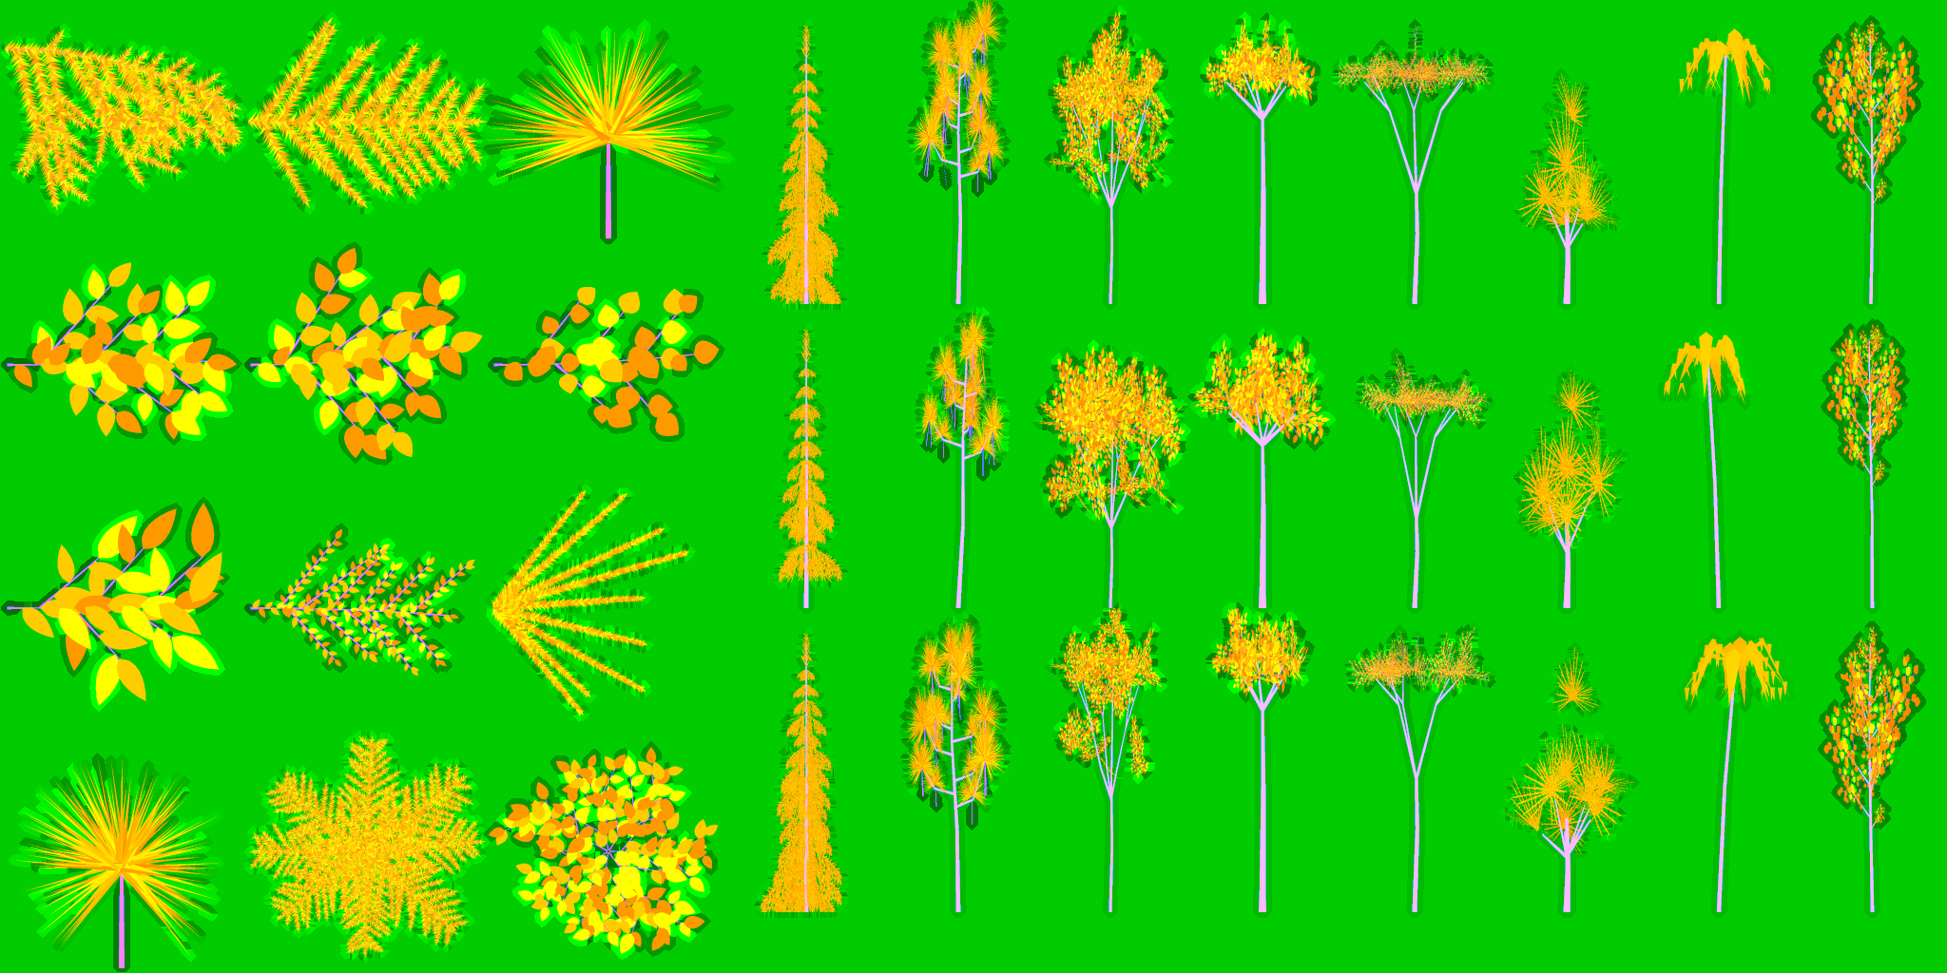
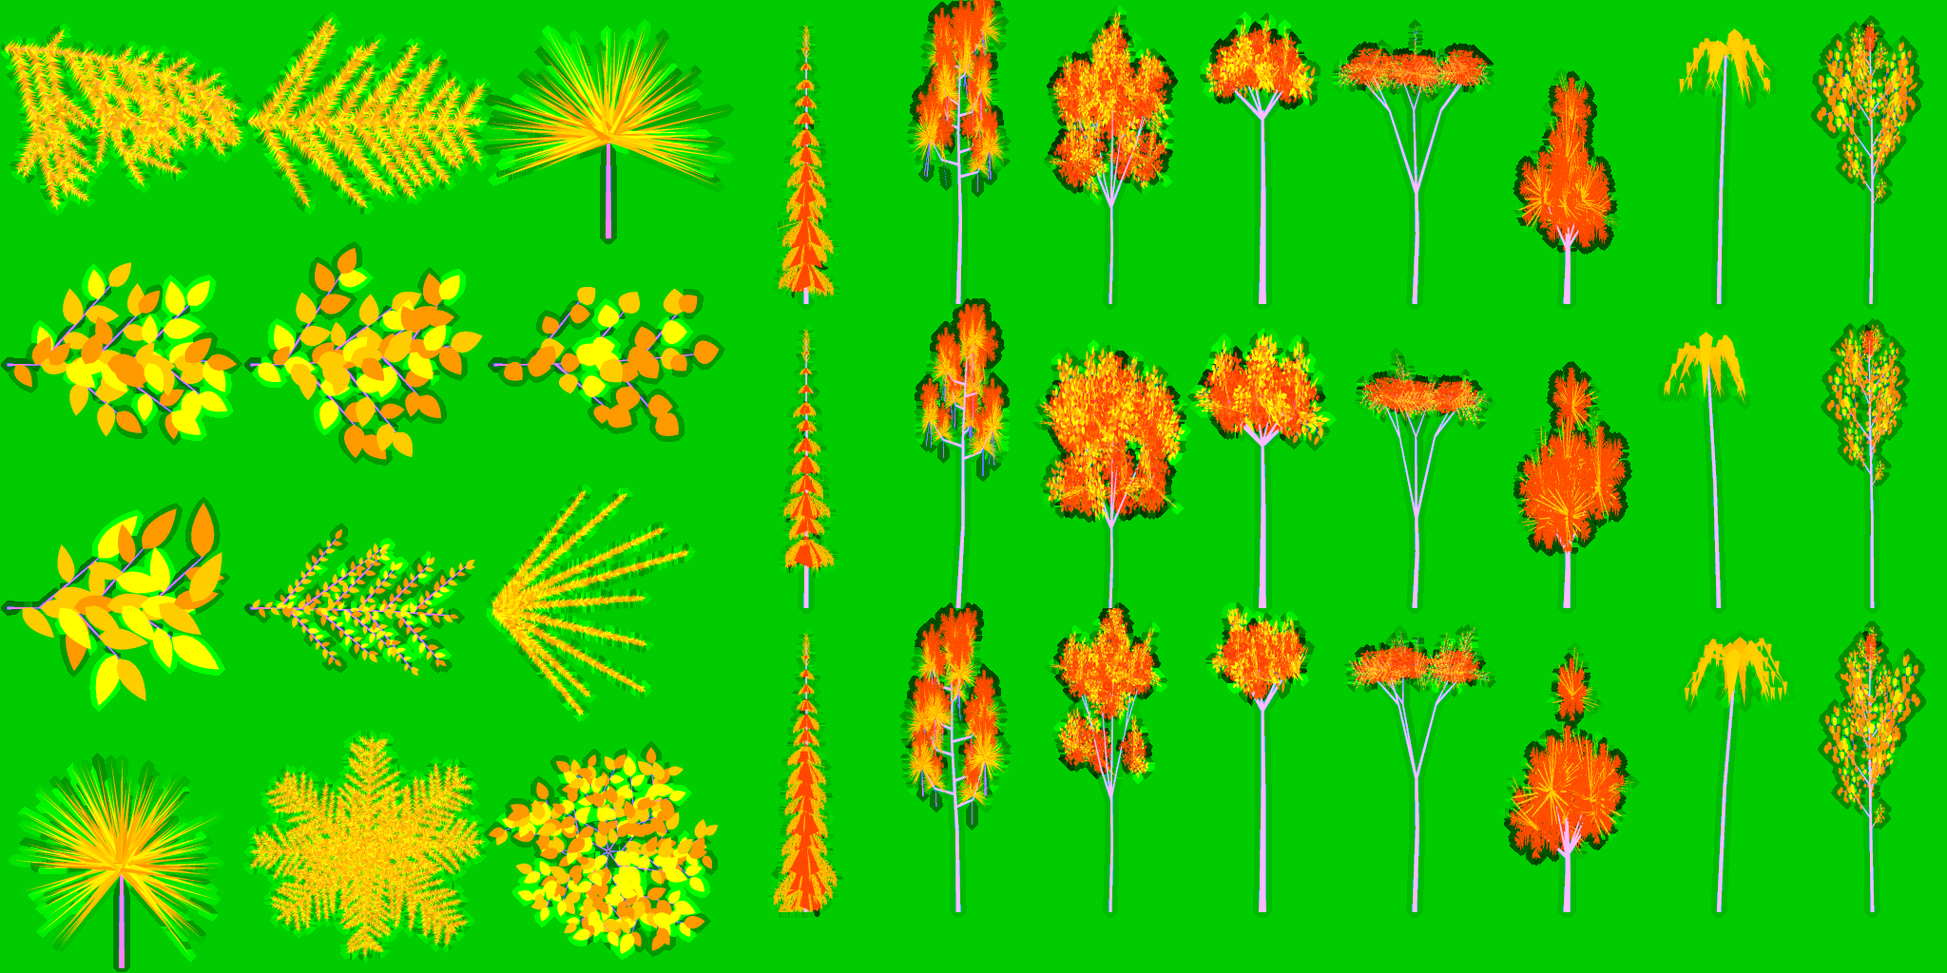
Trees: dark hearts in every crown, narrower firs, cold green for conifers, bark, the air of a wood
- treeGeometry: a bunch of sprays has a heart (three crossed rosette cards drawn dark,
  aLeaf 3.25); a fir's tier has a dark skirt under its boughs (plain faces, 1.25); firs a
  third narrower with more boughs a tier
- trees.js: paintLeaf keeps a conifer's cold green; hearts take no light through; bark
  furrows near by; forestAir (lightingGlsl) pales row behind row of trees
- the far canopy (terrainMaterial): up to its height where the last trees stand (no brown
  ring from above), lit by the sides of its crowns as trees are, in the same air
- the tide's vertex work only near the sea's level and the traveller
- governor: the rain step thins to a quarter (the old full count)

Not yet seen in the game: pictures are queued.

Claude-Session: https://claude.ai/code/session_01XG1DZ692FjkSqnhW4EMsP8

diff --git a/src/life/treeGeometry.js b/src/life/treeGeometry.js
@@ -14,8 +14,9 @@
 //
 // Vertex data: position, normal (smooth over the whole crown: a tree is lit as one round
 // mass, light on the side to the Sun and dark away from it, whatever way its cards
-// face), aLeaf (0 wood, 1 and 2 leaves drawn as plain faces: a palm's fronds; 3 a card of
-// foliage; 4 a whole tree's card), aUv (where in the picture; -1 on plain faces), aSway
+// face), aLeaf (0 wood, 1 and 2 leaves drawn as plain faces: a palm's fronds; 1.25 the
+// dark inside of a fir's tier, a plain face; 3 a card of foliage; 3.25 a card of the dark
+// heart of a bunch; 4 a whole tree's card), aUv (where in the picture; -1 on plain faces), aSway
 // (how far the wind can move the vertex: its height and its distance from the trunk).
 //
 // node scripts/tree-preview.mjs draws them all without a browser;
@@ -77,9 +78,29 @@ class Shape {
   // picture's downward goes); its root `off` of the way down the card's root edge.
   card(p, ax, ay, len, wid, cell, c, off = 0.5, bend = null) { this.plate(p, ax, [-ay[0], -ay[1], -ay[2]], len, wid, sprayRect(cell), 0, off, c, 3, bend); }
 
+  // The heart of a mass of foliage: three crossed cards of a rosette at its middle, drawn
+  // dark (aLeaf 3.25). Sprays alone are a lace one sees straight through: a forest of them
+  // was a green noise with no tree in it. With a heart a crown is a dark mass with a cut
+  // edge, and the light catches the sprays that stand out of it. (A plain lump did the
+  // same and showed its flat faces.) rx: its radius, ry: its half height.
+  heart(cx, cy, cz, rx, ry, rose) {
+    const c = [cx, cy, cz], rect = sprayRect(rose), t = cx * 37 + cz * 53 + cy * 11, a = [Math.cos(t), 0, Math.sin(t)], b = [-Math.sin(t), 0, Math.cos(t)];
+    this.plate(c, a, [0, 1, 0], 2 * rx, 2 * ry, rect, 0.5, 0.5, c, 3.25);
+    this.plate(c, b, [0, 1, 0], 2 * rx, 2 * ry, rect, 0.5, 0.5, c, 3.25);
+    this.plate(c, a, b, 2 * rx, 2 * rx, rect, 0.5, 0.5, c, 3.25);
+  }
+
+  // A skirt: the heart of one tier of a fir's boughs, a cone hanging from the trunk at
+  // height y down to a ring `r` out and `fall` lower.
+  skirt(y, r, fall, turn) {
+    const top = [0, y, 0], ring = [0, 1, 2, 3, 4, 5].map((k) => [Math.cos(turn + k * 1.0472) * r * (k % 2 ? 1 : 0.86), y - fall * (k % 2 ? 1 : 0.8), Math.sin(turn + k * 1.0472) * r * (k % 2 ? 1 : 0.86)]);
+    for (let k = 0; k < 6; k++) this.tri(top, ring[k], ring[(k + 1) % 6], 1.25, 0, y - fall * 1.6, 0);
+  }
+
   // A bunch of sprays at a limb's end: `n` of them growing out of (cx, cy, cz) every way
   // (more up and out than down), each about `r` long, flatter than round by `flat`.
-  bunch(cx, cy, cz, r, n, cells, R, flat = 1, low = -0.45) {
+  bunch(cx, cy, cz, r, n, cells, R, flat = 1, low = -0.45, rose = SPRAYS.roseL) {
+    this.heart(cx, cy + r * 0.12, cz, r * 0.95, r * 0.8 * Math.min(1, flat + 0.25), rose);
     for (let k = 0; k < n; k++) {
       const u = low + (1 - low) * (k + R()) / n, a = k * 2.4 + R() * 1.2, h = Math.sqrt(Math.max(0, 1 - u * u));
       const d = norm([Math.cos(a) * h, u * flat, Math.sin(a) * h]), e = norm(cross(d, norm([R() - 0.5, R() - 0.5, R() - 0.5]))), len = r * (1.15 + 0.5 * R());
@@ -154,11 +175,15 @@ export function makeTreeGeometries() {
   // trunk, its spray hanging; a few lie flat in every tier for whoever looks from above or
   // below. Variants: fuller, sparser, taller-crowned.
   make(0, 11, (v) => [SPRAYS.roseN, [0.2, 0.17, 0.22][v], 0.3, 0.5], (s, R, L, v, q) => {
-    const tiers = [13, 11, 15][v], wide = [1, 0.84, 1.1][v], foot = [0.14, 0.23, 0.1][v], nV = q === 2 ? 7 : 5, nH = q === 2 ? 3 : 1;
+    // (a tall narrow spire, as spruce and fir stand: a third as wide as it is tall at most.
+    // It was half as wide as tall, the tree of a Christmas card.)
+    const tiers = [13, 11, 15][v], wide = [1, 0.84, 1.1][v], foot = [0.15, 0.25, 0.1][v], nV = q === 2 ? 8 : 6, nH = q === 2 ? 3 : 1;
     s.mid = 0.5;
     s.trunk([[0, 0, 0], [0.004, 0.5, 0.003], [0, 0.97, 0]], 0.016, 0.003, q === 2 ? 6 : 4);
     for (let k = 0; k < tiers; k++) {
-      const t = k / (tiers - 1), y = foot + (0.93 - foot) * Math.pow(t, 0.9), rr = (0.24 * Math.pow(1 - t, 0.8) + 0.03) * (0.78 + 0.4 * R()) * wide, turn = R() * TAU, c = [0, y - rr * 0.4, 0];
+      const t = k / (tiers - 1), y = foot + (0.93 - foot) * Math.pow(t, 0.9), rr = (0.185 * Math.pow(1 - t, 0.85) + 0.024) * (0.8 + 0.36 * R()) * wide, turn = R() * TAU, c = [0, y - rr * 0.4, 0];
+      // (the tier's dark heart: a skirt under the boughs, so that the tree is not seen through)
+      s.skirt(y + rr * 0.1, rr * 0.7, rr * 0.62, turn);
       for (let j = 0; j < nV; j++) {
         const a = turn + (j + 0.5 * (L() - 0.5)) / nV * TAU, len = rr * (0.85 + 0.35 * L()), ax = norm([Math.cos(a), -0.18 - 0.2 * L(), Math.sin(a)]), d = -ax[1], ay = norm([-d * ax[0], -1 - d * ax[1], -d * ax[2]]);
         s.card([Math.cos(a) * 0.006, y, Math.sin(a) * 0.006], ax, ay, len, len * 0.66, SPRAYS.fir, c, 0.2);
@@ -179,7 +204,7 @@ export function makeTreeGeometries() {
     const tr = (y) => [lean * (y < 0.5 ? y * 1.6 : 0.8 + (y - 0.5) * 0.9) + 0.012 * Math.sin(y * 7), y, 0.01 * Math.sin(y * 5 + 1)];
     s.trunk([tr(0), tr(0.3), tr(0.62), tr(0.93)], 0.016, 0.004, q === 2 ? 6 : 4);
     // a burst: crossed cards standing on the point, the needles upward and outward
-    const burst = (c, r, n) => { for (let j = 0; j < n; j++) { const a = L() * TAU + j * (3.1416 / n), tilt = (L() - 0.5) * 0.7; s.plate(c, [Math.cos(a), 0, Math.sin(a)], norm([-Math.sin(a) * tilt, 1, Math.cos(a) * tilt]), r * 2.3, r * 2.3, sprayRect(j % 2 ? SPRAYS.pine2 : SPRAYS.pine), 0.5, 0.56, [c[0], c[1] - r * 0.6, c[2]]); } };
+    const burst = (c, r, n) => { s.heart(c[0], c[1] + r * 0.7, c[2], r * 0.74, r * 0.66, SPRAYS.roseN); for (let j = 0; j < n; j++) { const a = L() * TAU + j * (3.1416 / n), tilt = (L() - 0.5) * 0.7; s.plate(c, [Math.cos(a), 0, Math.sin(a)], norm([-Math.sin(a) * tilt, 1, Math.cos(a) * tilt]), r * 2.3, r * 2.3, sprayRect(j % 2 ? SPRAYS.pine2 : SPRAYS.pine), 0.5, 0.56, [c[0], c[1] - r * 0.6, c[2]]); } };
     for (let k = 0; k < N; k++) {
       const t = k / (N - 1), y = low + (0.9 - low) * t, a = k * 2.4 + R(), len = (0.15 + 0.15 * (1 - t)) * (0.7 + 0.5 * R()), up = 0.25 + 0.35 * R(), big = 0.12 * (0.85 + 0.4 * R());
       if (q === 1 && k % 4 === 3) continue;
@@ -193,7 +218,7 @@ export function makeTreeGeometries() {
   });
 
   // What the broad crowns share: bunches of sprays [x, y, z, r] at the limbs' ends.
-  const bunches = (s, L, list, n, cells, flat = 1, low = -0.45) => { for (const [x, y, z, r] of list) s.bunch(x, y, z, r, s.q === 2 ? n : Math.ceil(n * 0.55), cells, L, flat, low); };
+  const bunches = (s, L, list, n, cells, flat = 1, low = -0.45, rose = SPRAYS.roseL) => { for (const [x, y, z, r] of list) s.bunch(x, y, z, r, s.q === 2 ? n : Math.ceil(n * 0.55), cells, L, flat, low, rose); };
 
   // 2 broadleaf: a trunk that parts into limbs, each limb into two, twigs of leaves all round
   // every end and in the middle, with sky between them (oak, beech, maple). Variants: round,
@@ -264,7 +289,7 @@ export function makeTreeGeometries() {
       list.push([Math.cos(a) * d, y, Math.sin(a) * d, 0.17 + 0.07 * R()]);
     }
     list.push([0.04, 0.68 + 0.05 * v, -0.03, 0.16]);
-    bunches(s, L, list, 8, [SPRAYS.tuft], 1, -0.2);
+    bunches(s, L, list, 8, [SPRAYS.tuft], 1, -0.2, SPRAYS.roseN);
   });
 
   // 6 palm: a thin leaning trunk and a crown of fronds, each a bent blade with leaflets down

diff --git a/src/life/trees.js b/src/life/trees.js
@@ -44,7 +44,7 @@ vec3 treePosition(out vec3 foot, out float leaf) {
   float swing = sin(uSeason.z * (1.6 + iB.z) + iB.z * 40.0 + p.y * 3.0) * 0.5 + 0.5 * sin(uSeason.z * 3.7 + iB.z * 17.0 + p.x * 9.0);
   float bend = aSway * iA.w * (0.004 * uTreeWind.w * gust + 0.0025 * uTreeWind.w * swing);
   // (out to nothing at the edge of the trees' radius, so none pops in)
-  float fade = 1.0 - smoothstep(uTreeRadius * 0.82, uTreeRadius, length(foot));
+  float fade = 1.0 - smoothstep(uTreeRadius * 0.86, uTreeRadius, length(foot));
   leaf = aLeaf;
   // (single leaves flutter, each in its own time, harder the harder it blows)
   vec3 flutter = vec3(0.0);
@@ -99,6 +99,12 @@ export class Trees {
           return mix(mix(mix(leafHash(i), leafHash(i + vec3(1, 0, 0)), f.x), mix(leafHash(i + vec3(0, 1, 0)), leafHash(i + vec3(1, 1, 0)), f.x), f.y),
                      mix(mix(leafHash(i + vec3(0, 0, 1)), leafHash(i + vec3(1, 0, 1)), f.x), mix(leafHash(i + vec3(0, 1, 1)), leafHash(i + vec3(1, 1, 1)), f.x), f.y), f.z);
         }
+        // (the painted look's leaf: a cleaner green of the tree's own kind, warm for broad
+        // leaves, a cold blue-green for firs and spruces, told by the colour the species has)
+        vec3 paintLeaf(vec3 c) {
+          vec3 hue = mix(vec3(0.62, 1.0, 0.36), vec3(0.36, 1.0, 0.62), smoothstep(-0.2, 0.2, (c.b - c.r) / max(c.g, 1e-4)));
+          return mix(c, dot(c, vec3(0.2, 0.7, 0.1)) * hue, 0.45);
+        }
         void main() {
           // A card: cut out of the picture first of all (most of a card is nothing). Far off the
           // cut is taken lower: averaged down, needles and leaves cover less of a pixel, and a
@@ -124,7 +130,7 @@ export class Trees {
           // (the painted look: a crown's faces that look up are its light tone, those that look
           // down its dark one; a pale trunk has its dark scars, as aspen and birch do)
           if (uPaint.x > 0.0 && vLeaf > 0.5 && !card) {
-            leafC = mix(leafC, dot(leafC, vec3(0.2, 0.7, 0.1)) * vec3(0.62, 1.0, 0.36), 0.45) * mix(0.64, 1.15, smoothstep(-0.45, 0.55, dot(N, up)));
+            leafC = paintLeaf(leafC) * mix(0.64, 1.15, smoothstep(-0.45, 0.55, dot(N, up)));
             // (a crown is bunches of leaves, drawn as patches of three tones with clean edges;
             // not from far off, where a patch is smaller than a pixel)
             float c = leafCells(vTreeM * 2.6) * 0.65 + leafCells(vTreeM * 6.1 + 3.3) * 0.35, near = 1.0 - smoothstep(60.0, 140.0, length(vRel));
@@ -133,14 +139,22 @@ export class Trees {
           // (single leaves: each lighter or darker than its neighbours)
           leafC *= 1.0 - 0.36 * under;
           if (vLeaf > 1.5) leafC *= 0.94 + 0.44 * smoothstep(0.35, 0.65, leafCells(vTreeM * 4.7 + 1.9));
-          else if (vLeaf > 1.1) leafC *= 0.74;          // (the heart of a crown seen near: darker than the leaves round it)
+          else if (vLeaf > 1.1) leafC *= 0.46;          // (the heart of a mass of foliage: the dark inside, see Shape.heart in treeGeometry.js)
           // (a card's foliage: cleaner green, lighter where the crown looks up; and each needle
           // and leaf its own tone, from the picture)
           if (card) {
-            if (uPaint.x > 0.0) leafC = mix(leafC, dot(leafC, vec3(0.2, 0.7, 0.1)) * vec3(0.62, 1.0, 0.36), 0.45) * mix(0.5, 1.12, smoothstep(-0.5, 0.6, dot(N, up)));
+            if (uPaint.x > 0.0) leafC = paintLeaf(leafC) * mix(0.5, 1.12, smoothstep(-0.5, 0.6, dot(N, up)));
             leafC *= 0.46 + 0.6 * cut.g;
           }
+          // (the heart of a bunch: the dark inside of the crown, see Shape.heart in treeGeometry.js)
+          bool heart = (vLeaf > 3.1 && vLeaf < 3.5) || (vLeaf > 1.1 && vLeaf < 1.5);
+          if (vLeaf > 3.1 && vLeaf < 3.5) leafC *= 0.5;
           vec3 albedo = wood ? vTrunkC * 0.6 : leafC;
+          // (bark near by: furrows running up the trunk, wandering a little)
+          if (wood && !card) {
+            float dW = length(vRel);
+            if (dW < 60.0) { vec2 q = vTreeM.xz - vOwn.x * 37.0; float a = atan(q.y, q.x); albedo *= 1.0 - 0.38 * smoothstep(0.5, 0.8, abs(fract(a * 1.7507 + 0.32 * sin(vTreeM.y * 1.3 + a * 2.0)) - 0.5) * 2.0) * (1.0 - smoothstep(25.0, 60.0, dW)); }
+          }
           if (uPaint.x > 0.0 && wood && dot(vTrunkC, vec3(0.333)) > 0.4) albedo *= 1.0 - 0.75 * step(0.8, fract(vY * 31.0 + vOwn.x * 9.0)) * step(0.35, fract(vY * 7.7 + vOwn.x * 3.0));
           // (the shadow is asked for a little outside the crown: on a mass of a few faces the
           // shadow map would draw the faces)
@@ -150,7 +164,7 @@ export class Trees {
           float nl = dot(N, uSunDir), lit = !wood ? max(nl * 0.7 + 0.3, 0.0) : max(nl, 0.0);
           if (uPaint.x > 0.0) { lit = mix(lit, paintLit(!wood ? nl * 0.75 + 0.25 : nl) * PI, uPaint.x); albedo = paintColour(albedo); leafC = paintColour(leafC); }
           // (and seen against the Sun, foliage glows: the light comes through needles and leaves)
-          float through = wood ? 0.0 : max(-nl, 0.0) * 0.28 + (card ? 0.4 * pow(max(dot(-V, uSunDir), 0.0), 4.0) : 0.0);
+          float through = wood || heart ? 0.0 : max(-nl, 0.0) * 0.28 + (card ? 0.4 * pow(max(dot(-V, uSunDir), 0.0), 4.0) : 0.0);
           // inside and under a crown less sky is seen
           float open = !wood ? mix(0.5, 1.0, smoothstep(-0.6, 0.8, dot(N, up))) : mix(0.22, 0.6, smoothstep(0.0, 0.5, vY));
           // (the painted look: the shaded side of a crown is its dark tone, not a bright one lit by the sky)
@@ -159,7 +173,7 @@ export class Trees {
           // come down through the leaves above it, green from the passage)
           vec3 glow = !wood ? leafC * directSun(planetPos) * (0.07 * smoothstep(0.0, 0.25, dot(up, uSunDir))) * vec3(0.9, 1.2, 0.5) : vec3(0.0);
           vec3 col = (albedo * (sun * lit + skyLight(N, up) * open + planetShine(N)) + leafC * sun * through * vec3(1.1, 1.25, 0.6) + glow) / PI;
-          col = aerialPerspective(col, vRel);
+          col = aerialPerspective(forestAir(col, vRel, up, 1.0), vRel);
           fragColor = vec4(col * uExposure, 1.0);
         }`,
     });

diff --git a/src/terrain/terrainMaterial.js b/src/terrain/terrainMaterial.js
@@ -94,9 +94,12 @@ void main() {
       vRel = rel;
     }
   }
-  if (uSea.x > 0.5 && aI2.z < 20.0 && (uTide.x < 0.0 || (uWave.y > 0.5 && aI2.z < 2.5))) {
+  // (asked only by vertices that can need it: near the sea's level and near the traveller
+  // for the tide, in the finest patches for the waves)
+  float far = length(rel);
+  if (uSea.x > 0.5 && aI2.z < 20.0 && ((uTide.x < 0.0 && pv.w - uSea.y < 6.0 && far < 1000.0) || (uWave.y > 0.5 && aI2.z < 2.5))) {
     float wa = textureLod(tNormal, vec3((aGrid * float(NORMAL_RES) + 0.5) / float(NORMAL_RES + 1), aI2.w), 0.0).a;
-    float inland = smoothstep(2.0, 6.0, pv.w - uSea.y), far = length(rel);
+    float inland = smoothstep(2.0, 6.0, pv.w - uSea.y);
     // The tide: the sea stands uTide.x metres under the level its shore is mapped at. Its
     // surface comes down to that; where the water was shallower, the bed it leaves bare
     // is drawn at its own depth: the beach slopes down to the water's new edge. The sea
@@ -302,6 +305,7 @@ void main() {
   // --- the world's real large-scale brightness and colour: maria, rays, dark sands
   float canopyTall = 0.0;        // how tall the trees stand here (m; from the land-cover picture)
   float canopyShade = 0.0;       // how much of the sky a closed canopy hides from the ground here
+  float woodAir = 0.0;           // how much this is forest (its floor, or its canopy far off): for the air of a wood
   vec3 mapTint = vec3(1.0);
   float mapW = 0.0;
   if (uAlbedoMap.w > 0.0) {
@@ -401,6 +405,7 @@ void main() {
   // as a whole (far off) the surface is its canopy: leaves, uneven, darker between crowns
   if (canopyTall > 0.3) {
     float wooded = smoothstep(0.5, 5.0, canopyTall) * flatW;
+    woodAir = max(vShell, smoothstep(5.0, 14.0, canopyTall) * flatW);
     {
       // open country is grass in patches; under a closed canopy it is litter and shade
       vec3 g1 = texture(tDetail, vDetailUv * 0.5).rgb, g2 = texture(tDetail, vDetailUv * 4.0).rgb;
@@ -423,6 +428,9 @@ void main() {
       vec3 c1 = texture(tDetail, vDetailUv * 5.0).rgb - 0.5, c2 = texture(tDetail, vDetailUv * 1.0).rgb - 0.5;
       float nearC = 1.0 - smoothstep(0.03, 0.5, fwidth(vDetailUv.x) + fwidth(vDetailUv.y));
       N = normalize(N + (uTanU * (c1.r + 0.7 * c2.r) + uTanV * (c1.g + 0.7 * c2.g)) * (1.6 * vShell * nearC));
+      // (a canopy seen from the side shows the sides of its crowns: lit with the Sun behind
+      // the eye, dark against it, as the trees drawn one by one are; from straight above, its top)
+      N = normalize(N + (V - up * dot(V, up)) * (1.1 * vShell));
       vec3 leaves = vec3(0.040, 0.078, 0.028) * mix(vec3(1.0), mapTint, 0.6) * (0.85 + 0.5 * (c2.b + 0.5 * c1.b));
       // (in their season, in patches: the trees that turn among those that do not)
       leaves = mix(leaves, mix(vec3(0.17, 0.10, 0.02), vec3(0.13, 0.035, 0.015), smoothstep(-0.1, 0.25, c1.r)) * (0.8 + 0.6 * (c2.b + 0.5)), uLitter * 0.85 * smoothstep(-0.12, 0.1, c2.r + 0.5 * c1.g));
@@ -547,6 +555,7 @@ void main() {
     col += directSun(planetPos) * shadow * (gl * (1.0 - farW) * a2 / (PI * dd * dd) * F * max(dot(N, uSunDir), 0.0));
     if (wetK > 0.0) { vec3 Rw = reflect(-V, N); Rw = normalize(Rw + up * max(0.0, 0.05 - dot(Rw, up))); col += wetK * flatW * 0.5 * pow(1.0 - max(dot(N, V), 0.0), 4.0) * skyLight(Rw, up) / PI; }
   }
+  if (woodAir > 0.0) col = forestAir(col, vRel, up, woodAir);
   col = aerialPerspective(col, vRel, albedo);      // the haze above depends on how bright the ground is
   fragColor = vec4(col * uExposure, 1.0);
 }`;

diff --git a/src/life/treeAtlasGen.js b/src/life/treeAtlasGen.js
@@ -191,8 +191,9 @@ export function addImpostors(A, geos) {
         const qx = x + 0.5, qy = y + 0.5, u = ((b[1] - c[1]) * (qx - c[0]) + (c[0] - b[0]) * (qy - c[1])) / den, w = ((c[1] - a[1]) * (qx - c[0]) + (a[0] - c[0]) * (qy - c[1])) / den, r = 1 - u - w;
         if (u < 0 || w < 0 || r < 0) continue;
         const z = u * a[2] + w * b[2] + r * c[2], i = y * W + x; if (z <= zb[i]) continue;
-        let tn = leaf < 0.5 ? 0.8 : 0.85, wd = leaf < 0.5 ? 1 : 0;
-        if (card) { const s = sampleAtlas(A, u * ua[0] + w * ub[0] + r * uc[0], u * ua[1] + w * ub[1] + r * uc[1]); if (s[0] < 0.42) continue; tn = s[1]; wd = s[2] > 0.5 ? 1 : 0; }
+        // (the dark inside of a crown, 1.25 and 3.25 in treeGeometry.js, is dark in the picture too)
+        let tn = leaf < 0.5 ? 0.8 : leaf > 1.1 && leaf < 1.5 ? 0.3 : 0.85, wd = leaf < 0.5 ? 1 : 0;
+        if (card) { const s = sampleAtlas(A, u * ua[0] + w * ub[0] + r * uc[0], u * ua[1] + w * ub[1] + r * uc[1]); if (s[0] < 0.42) continue; tn = s[1] * (leaf > 3.1 && leaf < 3.5 ? 0.4 : 1); wd = s[2] > 0.5 ? 1 : 0; }
         // (what is nearer the eye a little lighter: the tree keeps some depth when it is flat)
         zb[i] = z; cov[i] = 1; tone[i] = tn * (0.82 + 0.18 * Math.min(1, Math.max(0, z / 0.3 * 0.5 + 0.5))); wood[i] = wd;
       }

diff --git a/src/perf/governor.js b/src/perf/governor.js
@@ -31,7 +31,7 @@ export const FEATURE_STEPS = [
   { id: 'dust', label: 'half the kicked-up dust, simpler cloud', apply: (app, off) => { app.dust.amount = off ? 0.5 : 1; } },
   { id: 'rocks', label: 'half the rocks', apply: (app, off) => { app.rocks.setFraction(off ? 0.5 : 1); } },
   { id: 'fine-shadows', label: 'coarser shadows of nearby rocks', apply: (app, off) => { app.nearShadow.fine = !off; } },
-  { id: 'rain', label: 'thinner rain and snow', apply: (app, off) => { if (app.rain) app.rain.share = off ? 0.4 : 1; } },
+  { id: 'rain', label: 'thinner rain and snow', apply: (app, off) => { if (app.rain) app.rain.share = off ? 0.25 : 1; } },      // (a quarter: the 1 400 streaks that were all of the rain before it was made four times as dense)
   { id: 'leaves', label: 'leaves in the wind', apply: (app, off) => { if (app.leaves) app.leaves.enabled = !off; } },
   { id: 'grass', label: 'half the grass', apply: (app, off) => { app.grass?.setFraction(off ? 0.5 : 1); } },
   { id: 'tree-leaves', label: 'every leaf on the nearest trees', apply: (app, off) => { if (app.trees) { app.trees.closeOn = !off; app.trees.dirty = true; } } },

diff --git a/src/render/lightingGlsl.js b/src/render/lightingGlsl.js
@@ -218,6 +218,13 @@ vec3 rainVeil(vec3 color, vec3 rel) {
   return mix(color, skyLight(up, up) * (0.7 / PI), 1.0 - exp(-length(rel) * uWeather.w));
 }
 // Small things (rocks, the lander, the character): the haze of mean ground.
+// The air of a wood: a forest breathes a blue haze of its own, and row behind row of trees
+// stands paler in it (the painted look's layers of distance, inside a forest and over one).
+// amount: how much forest this is (1: a tree). Trees, the ground under them and the far
+// canopy all ask here, so that they agree.
+vec3 forestAir(vec3 color, vec3 rel, vec3 up, float amount) {
+  return mix(color, skyLight(up, up) * (0.3 / PI), uPaint.x * 0.38 * amount * (1.0 - exp(-length(rel) / 150.0)));
+}
 vec3 aerialPerspective(vec3 color, vec3 rel) { return rainVeil(hazeOverGround(color, rel, vec3(1.0)), rel); }
 // The ground itself, with its own albedo.
 vec3 aerialPerspective(vec3 color, vec3 rel, vec3 albedo) {

diff --git a/src/app.js b/src/app.js
@@ -1217,7 +1217,9 @@ export class App {
       this.trees.update(rig, day, this.terrain.shared.uWave.value.z);
       // (beyond the trees the forest is raised as a whole; from high up, all of it)
       const tr = this.trees, drawn = tr.def && rig.agl < (tr.def.below ?? 1500), r = (tr.def?.radius ?? 240) * tr.fraction;
-      this.terrain.shared.uShell.value.set(drawn ? r * 0.8 : 0, drawn ? r * 1.25 : 1, tr.def ? 1 : 0);
+      // (it is up to its height where the last trees stand: from above, the ground showed
+      // brown in a ring between the trees and the canopy)
+      this.terrain.shared.uShell.value.set(drawn ? r * 0.62 : 0, drawn ? r * 0.98 : 1, tr.def ? 1 : 0);
       this.leaves.update(rig, this.post.viewH);
       this.grass.update(rig, dt, renderer);
       // (fallen leaves on the ground under the trees, in their season)
